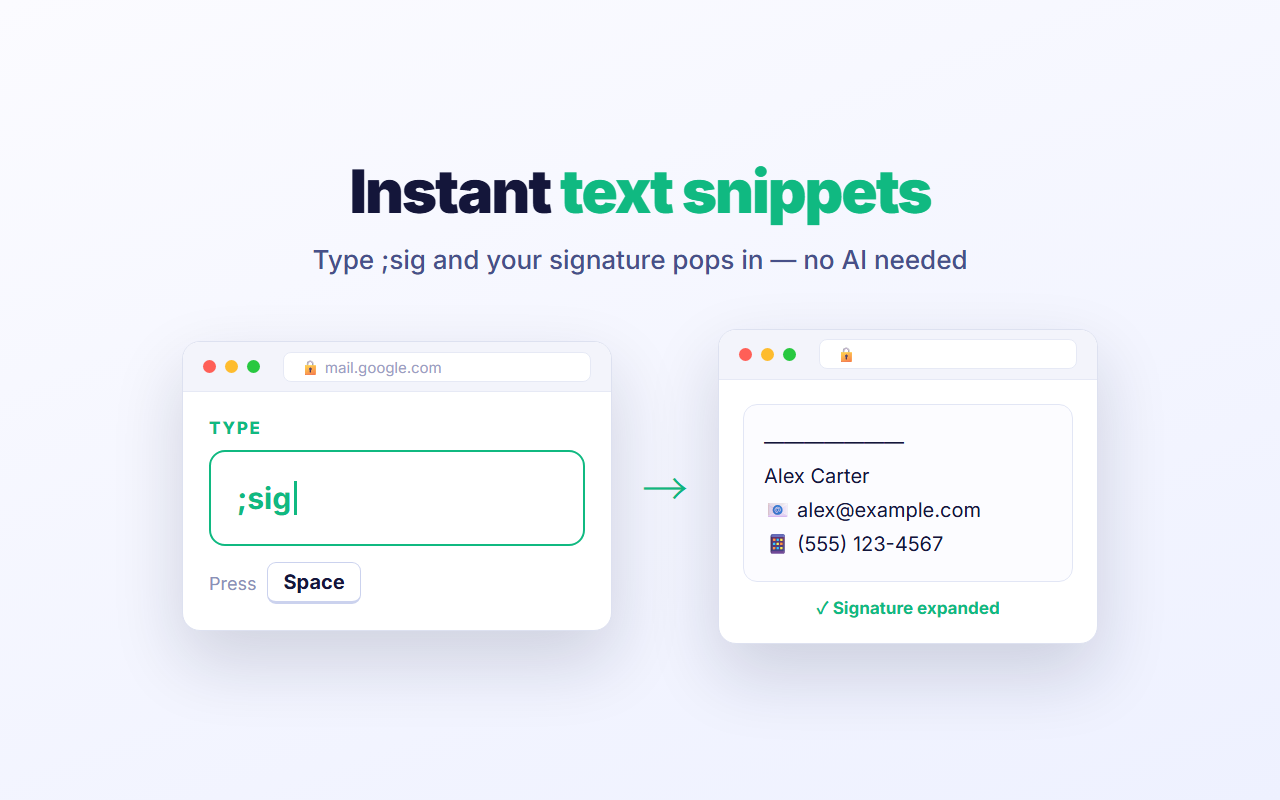
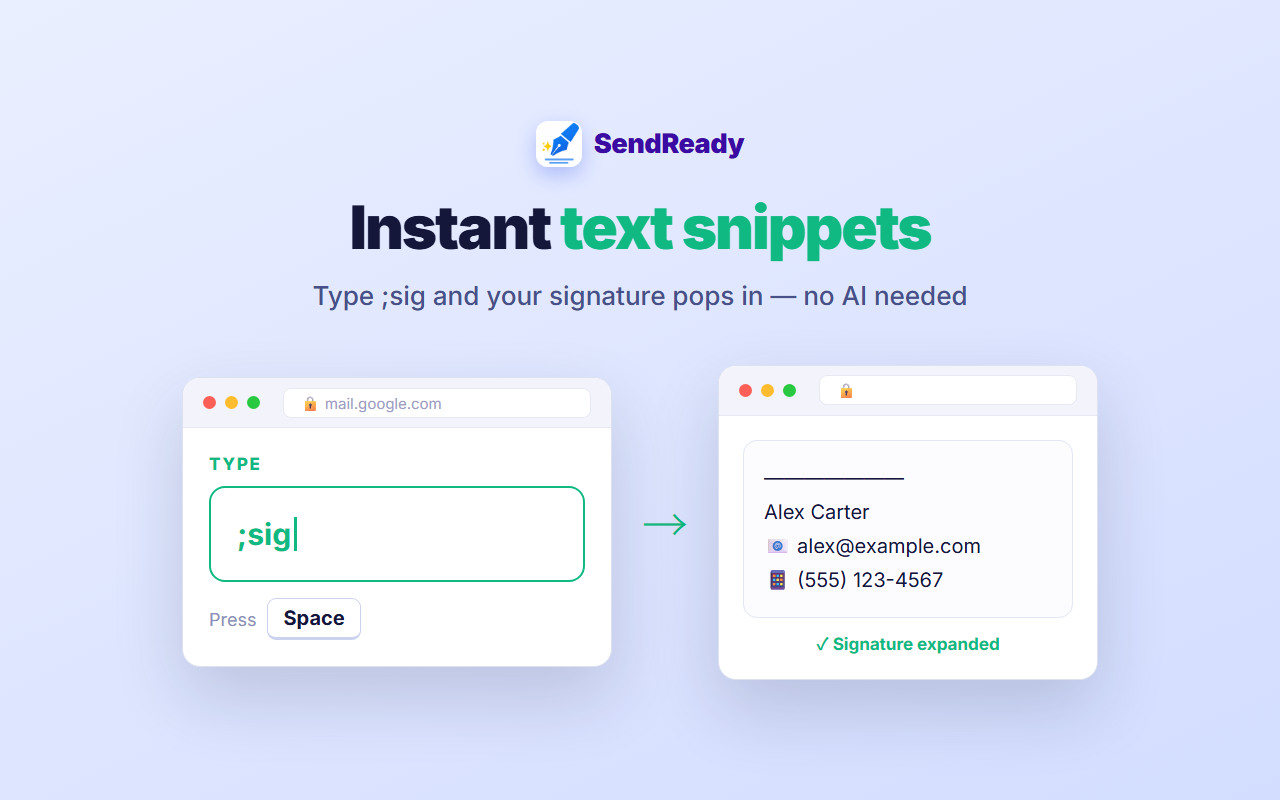
SendReady Chrome: store-image をテーマカラー＆アプリアイコン対応
- 背景をインディゴ寄りのグラデーションに変更（テーマカラーに統一）
- 各画像と feature にアプリアイコン(icon128)＋SendReady のブランド
  ロックアップを追加。ポップオーバーのアイコンも mark→icon128 に差替

diff --git a/sendready-chrome/store-images.html b/sendready-chrome/store-images.html
@@ -22,7 +22,11 @@ body { background:#C8CCE0; font-family:'Inter',sans-serif; -webkit-font-smoothin
 .cap h1 { font-size:60px; font-weight:900; color:var(--t1); letter-spacing:-2px; line-height:1.15; }
 .cap h1 .ind { color:var(--ind); }
 .cap p { font-size:26px; color:var(--t2); margin-top:18px; font-weight:500; }
+.brand { display:inline-flex; align-items:center; gap:12px; margin-bottom:26px; }
+.brand img { width:46px; height:46px; border-radius:12px; box-shadow:0 8px 20px rgba(67,97,238,.32); }
+.brand span { font-size:27px; font-weight:900; color:var(--ind-deep); letter-spacing:-.5px; }
 .glow { position:absolute; border-radius:50%; pointer-events:none; }
+.p-head img { border-radius:6px; }
 
 /* ── browser window ── */
 .win { background:#fff; border-radius:18px; box-shadow:0 30px 70px rgba(20,22,58,.16); border:1px solid #dde1f0; overflow:hidden; }
@@ -93,6 +97,9 @@ body { background:#C8CCE0; font-family:'Inter',sans-serif; -webkit-font-smoothin
 /* feature marquee 1400x560 */
 .feat-banner { width:1400px; height:560px; position:relative; overflow:hidden; margin:0 auto 56px; background:linear-gradient(135deg,#3A0CA3 0%,#4361EE 55%,#4895EF 100%); display:flex; align-items:center; padding:0 90px; gap:60px; }
 .fb-left { flex:1; color:#fff; z-index:2; }
+.fb-brand { display:inline-flex; align-items:center; gap:12px; margin-bottom:26px; }
+.fb-brand img { width:48px; height:48px; border-radius:12px; box-shadow:0 8px 22px rgba(0,0,0,.3); }
+.fb-brand span { font-size:28px; font-weight:900; color:#fff; letter-spacing:-.5px; }
 .fb-badge { display:inline-flex; align-items:center; gap:9px; background:rgba(255,255,255,.16); border:1px solid rgba(255,255,255,.32); color:#fff; font-size:19px; font-weight:700; padding:10px 24px; border-radius:100px; margin-bottom:28px; }
 .fb-title { font-size:62px; font-weight:900; line-height:1.15; letter-spacing:-2px; margin-bottom:22px; }
 .fb-sub { font-size:25px; color:rgba(255,255,255,.85); line-height:1.55; font-weight:500; }
@@ -104,9 +111,9 @@ body { background:#C8CCE0; font-family:'Inter',sans-serif; -webkit-font-smoothin
 <body>
 
 <!-- ════ IMG 1: Polish (before → after) ════ -->
-<div class="si" id="img1" style="background:linear-gradient(160deg,#FBFBFF,#EEF1FF);">
+<div class="si" id="img1" style="background:linear-gradient(155deg,#EAEFFF,#D3DDFF);">
   <div class="glow" style="right:-120px;top:-120px;width:560px;height:560px;background:radial-gradient(circle,rgba(67,97,238,.1),transparent 60%);"></div>
-  <div class="cap"><h1>Polish your words <span class="ind">with AI</span></h1><p>From a quick draft to ready-to-send — in one tap</p></div>
+  <div class="cap"><div class="brand"><img src="icons/icon128.png" alt=""><span>SendReady</span></div><h1>Polish your words <span class="ind">with AI</span></h1><p>From a quick draft to ready-to-send — in one tap</p></div>
   <div class="ba">
     <div class="ba-card gray"><div class="l">YOU TYPED</div><div class="x">tmrw 10 works, thx</div></div>
     <div class="ba-mid"><span class="ba-pill">💝 Polish</span></div>
@@ -115,12 +122,12 @@ body { background:#C8CCE0; font-family:'Inter',sans-serif; -webkit-font-smoothin
 </div>
 
 <!-- ════ IMG 2: Select → menu ════ -->
-<div class="si" id="img2" style="background:linear-gradient(160deg,#EEF1FF,#E6EAFF);">
-  <div class="cap"><h1>Select text, <span class="ind">pick a preset</span></h1><p>Polish · Translate · Summarize · Fix typos</p></div>
+<div class="si" id="img2" style="background:linear-gradient(155deg,#E1E8FF,#C7D5FF);">
+  <div class="cap"><div class="brand"><img src="icons/icon128.png" alt=""><span>SendReady</span></div><h1>Select text, <span class="ind">pick a preset</span></h1><p>Polish · Translate · Summarize · Fix typos</p></div>
   <div style="display:flex;flex-direction:column;align-items:center;gap:26px;">
     <div class="seltext">"Could you send me the report by Friday?"</div>
     <div class="panel" style="width:460px;">
-      <div class="p-head"><img src="icons/mark.png"><b>SendReady</b><span class="x">✕</span></div>
+      <div class="p-head"><img src="icons/icon128.png"><b>SendReady</b><span class="x">✕</span></div>
       <div class="p-item hi"><span class="p-tag">AI</span><span class="t">Polish 💝</span><span class="g">//p</span></div>
       <div class="p-item"><span class="p-tag">AI</span><span class="t">Translate 🌏</span><span class="g">//tr</span></div>
       <div class="p-item"><span class="p-tag">AI</span><span class="t">Summarize 📝</span><span class="g">//sum</span></div>
@@ -130,8 +137,8 @@ body { background:#C8CCE0; font-family:'Inter',sans-serif; -webkit-font-smoothin
 </div>
 
 <!-- ════ IMG 3: Inline trigger ════ -->
-<div class="si" id="img3" style="background:linear-gradient(160deg,#FBFBFF,#EEF1FF);">
-  <div class="cap"><h1>Type a trigger, <span class="ind">hit Enter</span></h1><p>Write //p before your text — AI transforms it in place</p></div>
+<div class="si" id="img3" style="background:linear-gradient(155deg,#EAEFFF,#D3DDFF);">
+  <div class="cap"><div class="brand"><img src="icons/icon128.png" alt=""><span>SendReady</span></div><h1>Type a trigger, <span class="ind">hit Enter</span></h1><p>Write //p before your text — AI transforms it in place</p></div>
   <div class="io">
     <div class="win" style="width:470px;">
       <div class="win-bar"><span class="dot dr"></span><span class="dot dy"></span><span class="dot dg"></span><div class="url">🔒 x.com</div></div>
@@ -143,7 +150,7 @@ body { background:#C8CCE0; font-family:'Inter',sans-serif; -webkit-font-smoothin
     </div>
     <div class="io-arrow" style="color:var(--ind);">→</div>
     <div class="panel" style="width:380px;">
-      <div class="p-head"><img src="icons/mark.png"><b>SendReady</b><span class="x">✕</span></div>
+      <div class="p-head"><img src="icons/icon128.png"><b>SendReady</b><span class="x">✕</span></div>
       <div class="resbox">I'll be there at 10 tomorrow.</div>
       <div class="acts"><span class="btn p">Apply</span><span class="btn">Copy</span><span class="btn">Redo</span></div>
     </div>
@@ -151,8 +158,8 @@ body { background:#C8CCE0; font-family:'Inter',sans-serif; -webkit-font-smoothin
 </div>
 
 <!-- ════ IMG 4: Reply ════ -->
-<div class="si" id="img4" style="background:linear-gradient(160deg,#EEF1FF,#E9FBF4);">
-  <div class="cap"><h1>Turn a message <span class="ind">into a reply</span></h1><p>Pick a tone — AI writes the reply for you</p></div>
+<div class="si" id="img4" style="background:linear-gradient(155deg,#E1E8FF,#C7D5FF);">
+  <div class="cap"><div class="brand"><img src="icons/icon128.png" alt=""><span>SendReady</span></div><h1>Turn a message <span class="ind">into a reply</span></h1><p>Pick a tone — AI writes the reply for you</p></div>
   <div class="io" style="align-items:stretch;">
     <div class="win msg" style="width:460px;">
       <div class="win-bar"><span class="dot dr"></span><span class="dot dy"></span><span class="dot dg"></span><div class="url">🔒 mail.google.com</div></div>
@@ -162,7 +169,7 @@ body { background:#C8CCE0; font-family:'Inter',sans-serif; -webkit-font-smoothin
       </div>
     </div>
     <div class="panel" style="width:430px;">
-      <div class="p-head"><img src="icons/mark.png"><b>↩ Write a reply</b></div>
+      <div class="p-head"><img src="icons/icon128.png"><b>↩ Write a reply</b></div>
       <div style="font-size:16px;color:var(--t3);margin-bottom:12px;">PICK A TONE</div>
       <div style="display:flex;gap:9px;margin-bottom:18px;"><span class="chip on">Polite</span><span class="chip">Casual</span><span class="chip">Short</span></div>
       <div class="resbox" style="font-size:21px;">Thanks! Wednesday afternoon works — I'll be there at 2 PM. Looking forward to it.</div>
@@ -172,8 +179,8 @@ body { background:#C8CCE0; font-family:'Inter',sans-serif; -webkit-font-smoothin
 </div>
 
 <!-- ════ IMG 5: Snippets ════ -->
-<div class="si" id="img5" style="background:linear-gradient(160deg,#FBFBFF,#EEF1FF);">
-  <div class="cap"><h1>Instant <span class="ind" style="color:var(--snip);">text snippets</span></h1><p>Type ;sig and your signature pops in — no AI needed</p></div>
+<div class="si" id="img5" style="background:linear-gradient(155deg,#EAEFFF,#D3DDFF);">
+  <div class="cap"><div class="brand"><img src="icons/icon128.png" alt=""><span>SendReady</span></div><h1>Instant <span class="ind" style="color:var(--snip);">text snippets</span></h1><p>Type ;sig and your signature pops in — no AI needed</p></div>
   <div class="io">
     <div class="win" style="width:430px;">
       <div class="win-bar"><span class="dot dr"></span><span class="dot dy"></span><span class="dot dg"></span><div class="url">🔒 mail.google.com</div></div>
@@ -195,10 +202,10 @@ body { background:#C8CCE0; font-family:'Inter',sans-serif; -webkit-font-smoothin
 </div>
 
 <!-- ════ IMG 6: Your presets ════ -->
-<div class="si" id="img6" style="background:linear-gradient(160deg,#EEF1FF,#E6EAFF);">
-  <div class="cap"><h1>Make it <span class="ind">your own</span></h1><p>Up to 10 AI presets and 10 snippets — your triggers</p></div>
+<div class="si" id="img6" style="background:linear-gradient(155deg,#E1E8FF,#C7D5FF);">
+  <div class="cap"><div class="brand"><img src="icons/icon128.png" alt=""><span>SendReady</span></div><h1>Make it <span class="ind">your own</span></h1><p>Up to 10 AI presets and 10 snippets — your triggers</p></div>
   <div class="popup">
-    <div class="pu-hd"><div class="pu-ttl"><img src="icons/mark.png">SendReady</div><span class="pu-use">Today 12 / 50</span></div>
+    <div class="pu-hd"><div class="pu-ttl"><img src="icons/icon128.png">SendReady</div><span class="pu-use">Today 12 / 50</span></div>
     <div class="pu-body">
       <div class="pu-sec a">AI PRESETS</div>
       <div class="pu-row"><span class="pu-rt a">AI</span><div class="pu-rm"><div class="t">Polish 💝</div><div class="d">More polite and respectful</div></div><span class="pu-rg">//p</span></div>
@@ -213,6 +220,7 @@ body { background:#C8CCE0; font-family:'Inter',sans-serif; -webkit-font-smoothin
 <div class="feat-banner" id="feature">
   <div class="glow" style="left:-100px;bottom:-150px;width:480px;height:480px;background:radial-gradient(circle,rgba(255,255,255,.14),transparent 60%);"></div>
   <div class="fb-left">
+    <div class="fb-brand"><img src="icons/icon128.png" alt=""><span>SendReady</span></div>
     <div class="fb-badge">⚡ 100% Free · Chrome Extension</div>
     <div class="fb-title">Transform any text<br>with AI, in one tap</div>
     <div class="fb-sub">Polish, translate, summarize &amp; reply —<br>in any text field. Snippets expand instantly, too.</div>
@@ -220,7 +228,7 @@ body { background:#C8CCE0; font-family:'Inter',sans-serif; -webkit-font-smoothin
   </div>
   <div class="fb-right">
     <div class="panel" style="width:400px;box-shadow:0 40px 90px rgba(0,0,0,.38);">
-      <div class="p-head"><img src="icons/mark.png"><b>SendReady</b><span class="x">✕</span></div>
+      <div class="p-head"><img src="icons/icon128.png"><b>SendReady</b><span class="x">✕</span></div>
       <div class="p-item hi"><span class="p-tag">AI</span><span class="t">Polish 💝</span><span class="g">//p</span></div>
       <div class="p-item"><span class="p-tag">AI</span><span class="t">Translate 🌏</span><span class="g">//tr</span></div>
       <div class="p-item"><span class="p-tag">AI</span><span class="t">Summarize 📝</span><span class="g">//sum</span></div>
